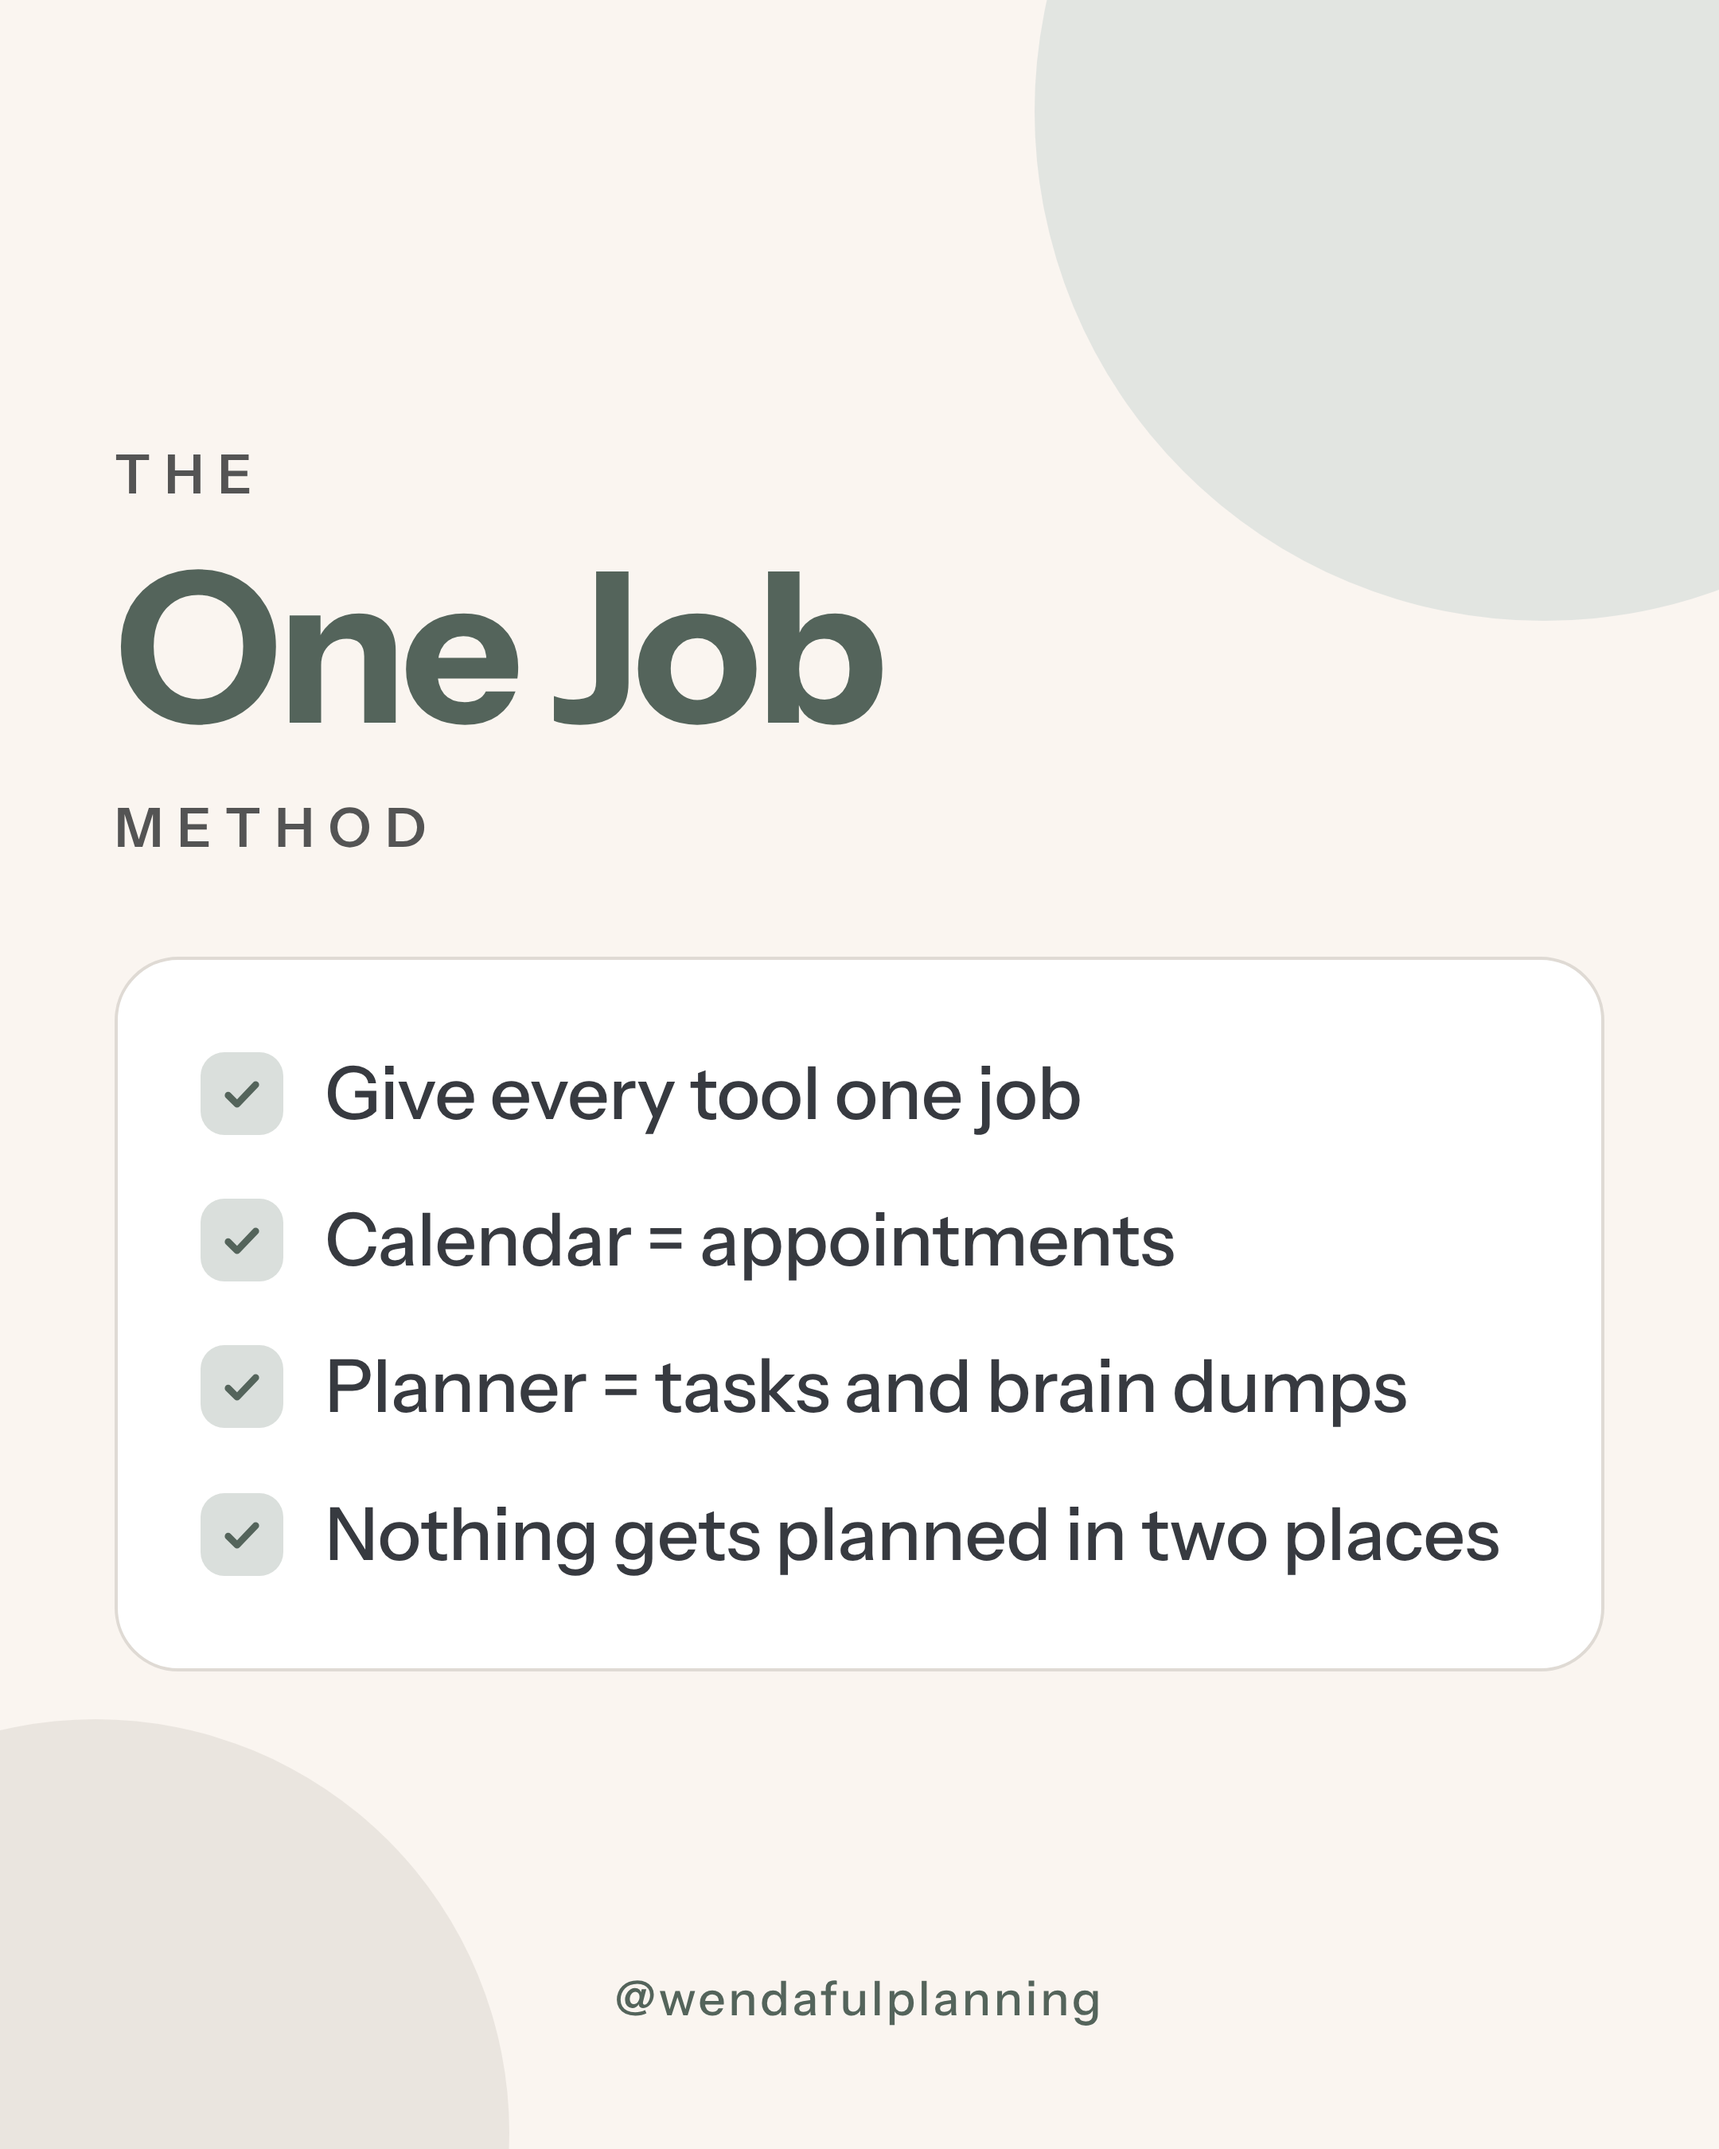
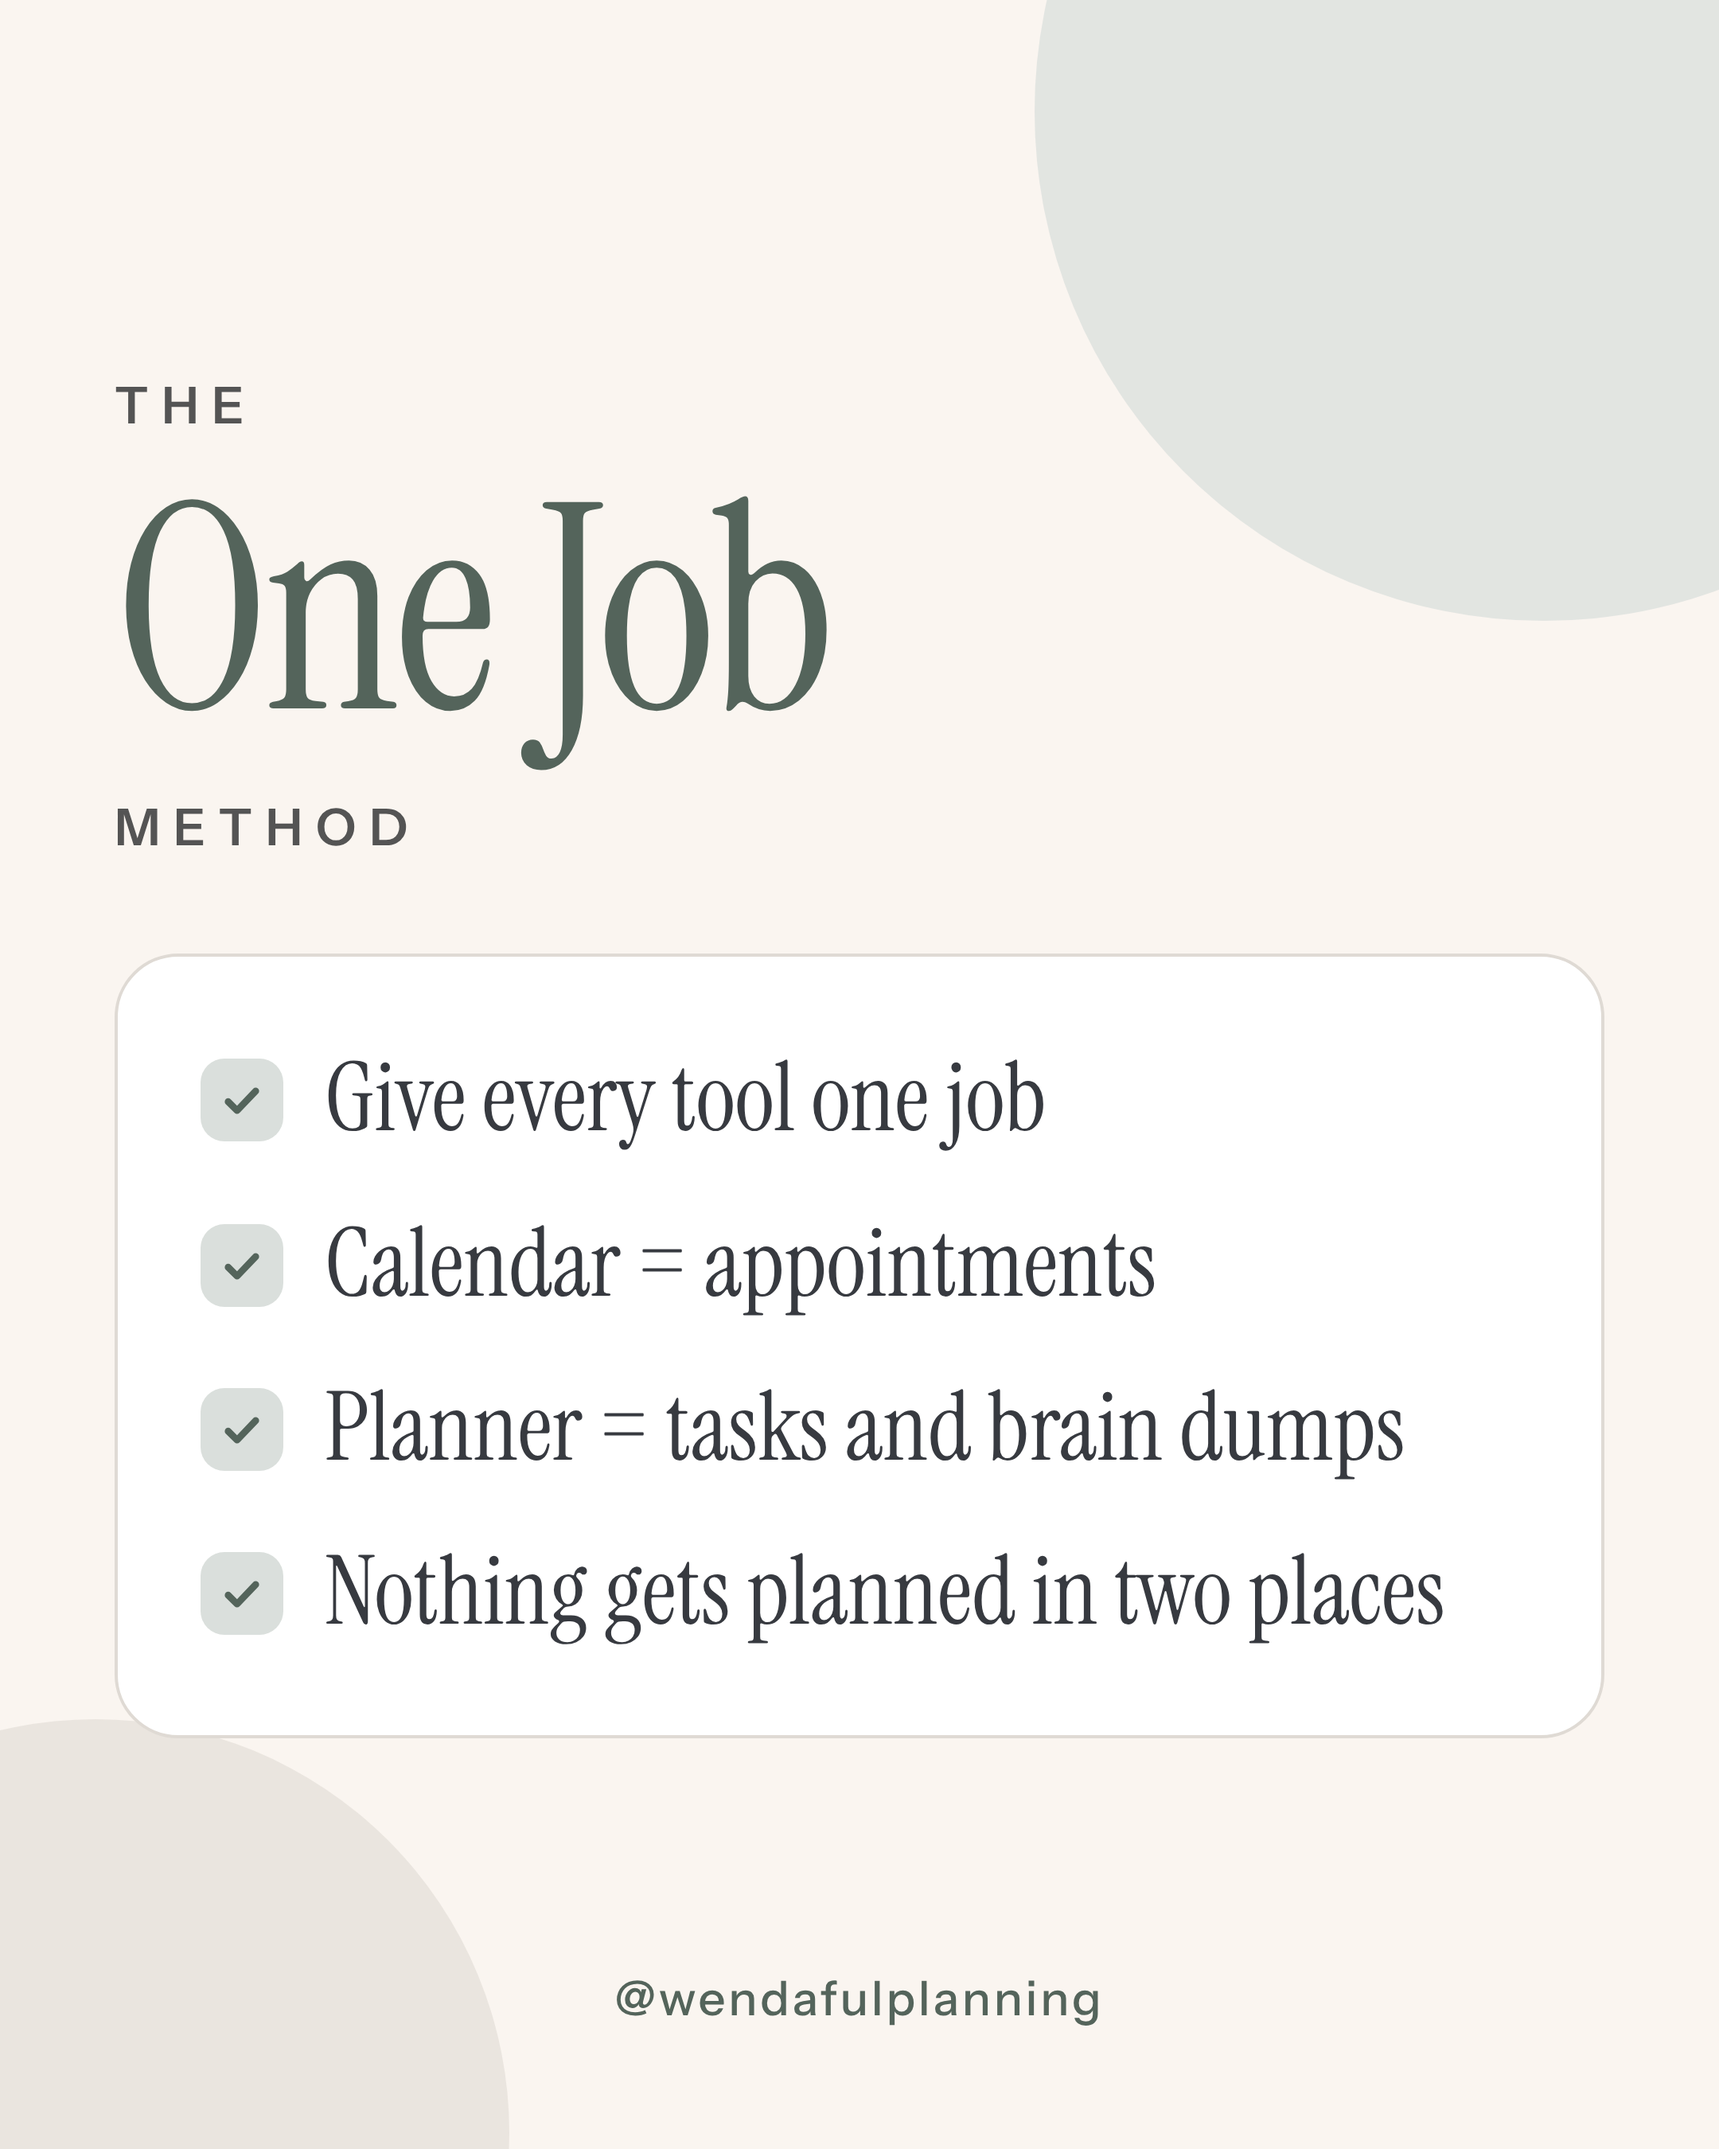
Switch method graphics to Instrument Serif for titles and bullets
Claude-Session: https://claude.ai/code/session_01ABa6PdyWeLwfw1dixKaR84

diff --git a/wendaful-method-graphics/build.js b/wendaful-method-graphics/build.js
@@ -77,14 +77,15 @@ const METHODS = [
   },
 ];
 
-const fontFace = [400, 500, 600, 700]
-  .map((w) => {
-    const b64 = fs
-      .readFileSync(path.join(FONT_DIR, `instrument-sans-latin-${w}-normal.woff2`))
-      .toString('base64');
-    return `@font-face{font-family:'Instrument Sans';font-weight:${w};font-style:normal;src:url(data:font/woff2;base64,${b64}) format('woff2');}`;
-  })
-  .join('\n');
+const b64 = (f) => fs.readFileSync(path.join(FONT_DIR, f)).toString('base64');
+const face = (family, weight, style, file) =>
+  `@font-face{font-family:'${family}';font-weight:${weight};font-style:${style};src:url(data:font/woff2;base64,${b64(file)}) format('woff2');}`;
+// Instrument Serif (titles + bullets) and Instrument Sans (small tracked labels only)
+const fontFace = [
+  face('Instrument Serif', 400, 'normal', 'instrument-serif-latin-400-normal.woff2'),
+  face('Instrument Sans', 500, 'normal', 'instrument-sans-latin-500-normal.woff2'),
+  face('Instrument Sans', 600, 'normal', 'instrument-sans-latin-600-normal.woff2'),
+].join('\n');
 
 const check =
   '<svg viewBox="0 0 24 24" width="32" height="32" fill="none" stroke="#54645b" stroke-width="3.2" stroke-linecap="round" stroke-linejoin="round"><path d="M5.5 12.8l4.2 4.2L18.5 7.8"/></svg>';
@@ -96,20 +97,20 @@ function html(m) {
 ${fontFace}
 :root{--evergreen:${C.evergreen};--sage:${C.sage};--light-sage:${C.lightSage};--charcoal:${C.charcoal};--gray:${C.gray};--warm:${C.warm};--bg:${C.bg};--white:${C.white}}
 *{box-sizing:border-box;margin:0;padding:0}
-body{width:1080px;height:1350px;background:var(--bg);font-family:'Instrument Sans',sans-serif;color:var(--charcoal);position:relative;overflow:hidden;-webkit-font-smoothing:antialiased}
+body{width:1080px;height:1350px;background:var(--bg);font-family:'Instrument Serif',serif;color:var(--charcoal);position:relative;overflow:hidden;-webkit-font-smoothing:antialiased}
 .blob{position:absolute;border-radius:50%}
 .b1{width:640px;height:640px;top:-250px;right:-210px;background:var(--light-sage);opacity:.75}
 .b2{width:520px;height:520px;bottom:-250px;left:-200px;background:var(--warm);opacity:.6}
 .wrap{position:relative;height:100%;padding:90px 72px 76px;display:flex;flex-direction:column}
 .main{flex:1;display:flex;flex-direction:column;justify-content:center}
-.kicker{font-size:34px;font-weight:600;letter-spacing:.26em;text-transform:uppercase;color:var(--gray)}
-h1{font-size:132px;font-weight:700;color:var(--evergreen);letter-spacing:-.025em;line-height:1.03;margin:20px 0 24px;text-wrap:balance}
+.kicker{font-family:'Instrument Sans',sans-serif;font-size:32px;font-weight:600;letter-spacing:.26em;text-transform:uppercase;color:var(--gray)}
+h1{font-size:180px;font-weight:400;color:var(--evergreen);letter-spacing:-.015em;line-height:.98;margin:22px 0 28px;text-wrap:balance}
 .card{margin-top:60px;background:var(--white);border:2px solid var(--warm);border-radius:40px;padding:56px 52px}
 ul{list-style:none;display:flex;flex-direction:column;gap:36px}
-li{display:flex;gap:26px;align-items:flex-start;font-size:46px;font-weight:500;line-height:1.22;letter-spacing:-.005em}
+li{display:flex;gap:26px;align-items:flex-start;font-size:60px;font-weight:400;line-height:1.12}
 li span:last-child{text-wrap:balance}
-.box{flex:none;width:52px;height:52px;border-radius:15px;background:var(--light-sage);display:grid;place-items:center;margin-top:2px}
-.foot{text-align:center;font-size:30px;font-weight:500;letter-spacing:.06em;color:var(--evergreen)}
+.box{flex:none;width:52px;height:52px;border-radius:15px;background:var(--light-sage);display:grid;place-items:center;margin-top:8px}
+.foot{text-align:center;font-family:'Instrument Sans',sans-serif;font-size:30px;font-weight:500;letter-spacing:.06em;color:var(--evergreen)}
 </style></head><body>
 <div class="blob b1"></div><div class="blob b2"></div>
 <div class="wrap">
@@ -137,9 +138,9 @@ li span:last-child{text-wrap:balance}
     await page.setContent(html(m), { waitUntil: 'load' });
     await page.evaluate(() => document.fonts.ready);
     const ok = await page.evaluate(
-      () => document.fonts.check("700 132px 'Instrument Sans'") && document.fonts.check("500 46px 'Instrument Sans'")
+      () => document.fonts.check("400 180px 'Instrument Serif'") && document.fonts.check("600 32px 'Instrument Sans'")
     );
-    if (!ok) throw new Error('Instrument Sans did not load');
+    if (!ok) throw new Error('Instrument Serif / Sans did not load');
     // Real content check (the decorative circles bleed off the edge on purpose).
     const fit = await page.evaluate(() => {
       const r = (s) => document.querySelector(s).getBoundingClientRect();
